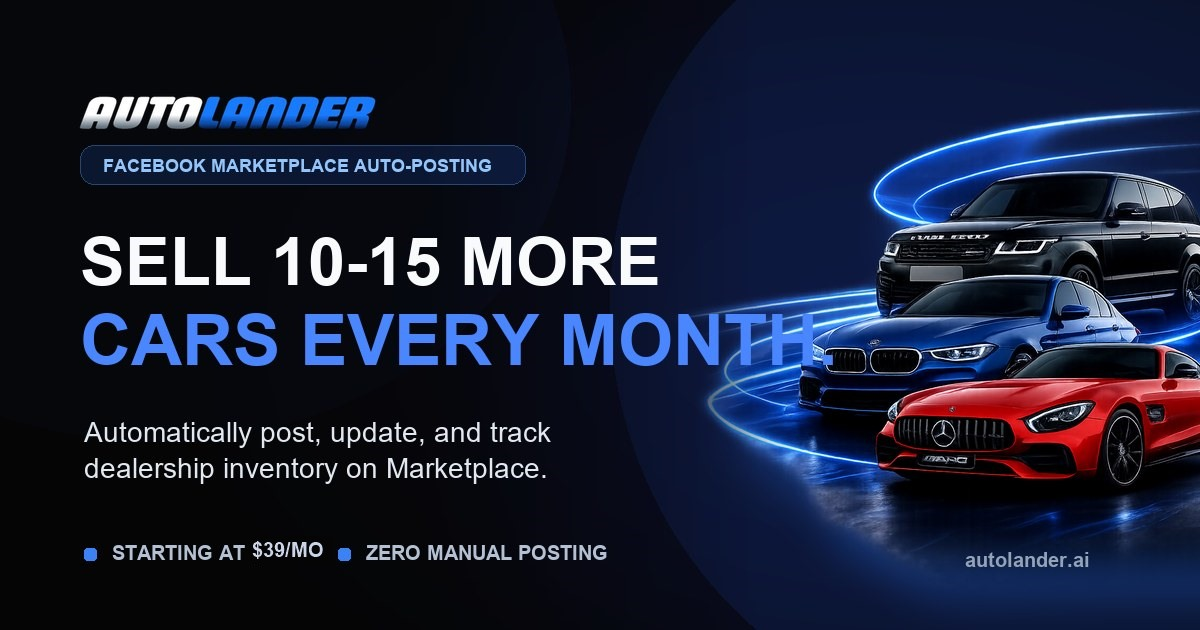
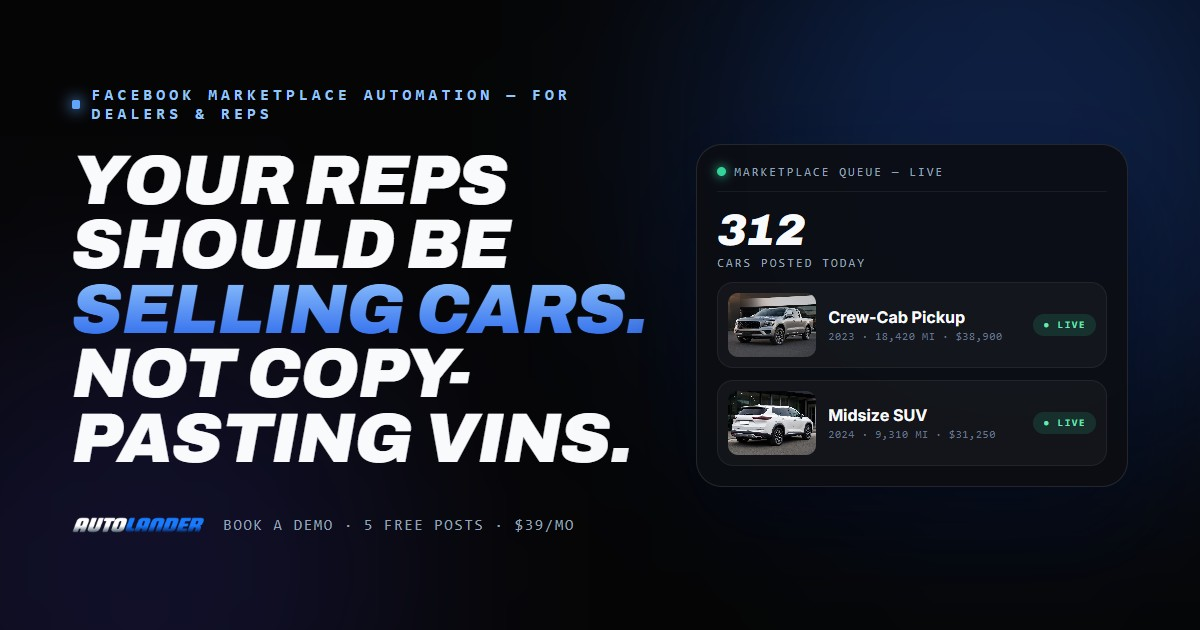
fix(preview): fresh on-brand share card (OG image) + preview-origin OG/Twitter tags

diff --git a/index.html b/index.html
@@ -9,15 +9,15 @@
     <link href="https://fonts.googleapis.com/css2?family=Archivo:ital,wght@0,600;0,700;0,800;0,900;1,800;1,900&family=Inter:wght@400;500;600;700&display=swap" rel="stylesheet" />
     <meta name="viewport" content="width=device-width, initial-scale=1.0" />
     <meta name="theme-color" content="#050505" />
-    <meta name="description" content="AutoLander automatically posts, updates, and tracks dealership inventory on Facebook Marketplace so dealers can generate more leads with less manual work." />
+    <meta name="description" content="AutoLander auto-posts, updates, and tracks your entire dealership inventory on Facebook Marketplace — so your reps sell cars instead of copy-pasting VINs." />
     <link rel="canonical" href="https://autolander.ai/" />
 
     <!-- Open Graph (Facebook, iMessage, Slack, LinkedIn, etc.) -->
     <meta property="og:type" content="website" />
     <meta property="og:url" content="https://autolander.ai/" />
     <meta property="og:site_name" content="AutoLander" />
-    <meta property="og:title" content="AutoLander | Facebook Marketplace Auto-Posting for Dealers" />
-    <meta property="og:description" content="Automatically post, update, and track dealership inventory on Facebook Marketplace." />
+    <meta property="og:title" content="AutoLander — Your reps should be selling cars, not copy-pasting VINs" />
+    <meta property="og:description" content="Auto-post, update, and track your entire dealership inventory on Facebook Marketplace. 20 cars in minutes, not hours — more buyer conversations, zero manual work." />
     <meta property="og:image" content="https://autolander.ai/og-image.jpg" />
     <meta property="og:image:secure_url" content="https://autolander.ai/og-image.jpg" />
     <meta property="og:image:type" content="image/jpeg" />
@@ -27,8 +27,8 @@
 
     <!-- Twitter Card -->
     <meta name="twitter:card" content="summary_large_image" />
-    <meta name="twitter:title" content="AutoLander | Facebook Marketplace Auto-Posting for Dealers" />
-    <meta name="twitter:description" content="Automatically post, update, and track dealership inventory on Facebook Marketplace." />
+    <meta name="twitter:title" content="AutoLander — Your reps should be selling cars, not copy-pasting VINs" />
+    <meta name="twitter:description" content="Auto-post, update, and track your entire dealership inventory on Facebook Marketplace. 20 cars in minutes, not hours — more buyer conversations, zero manual work." />
     <meta name="twitter:image" content="https://autolander.ai/og-image.jpg" />
     <meta name="twitter:image:alt" content="AutoLander helps car dealers automatically post inventory to Facebook Marketplace." />
 
@@ -47,7 +47,7 @@
       fbq('track', 'PageView');
     </script>
     <!-- End Meta Pixel Code -->
-    <title>AutoLander | Sell 5-10 More Cars Per Month</title>
+    <title>AutoLander — Marketplace posting on autopilot for car dealers</title>
     <style>
       /* Critical fallback so first paint isn't a white flash before JS loads */
       html, body { background: #050505; color: #f8fafc; margin: 0; -webkit-font-smoothing: antialiased; }

diff --git a/vite.config.js b/vite.config.js
@@ -12,6 +12,7 @@ function htmlTransformPlugin(pixelId, isPreview) {
       // never competes with the production site in search.
       if (isPreview) {
         return html
+          .replaceAll('https://autolander.ai', 'https://autolander-preview.pages.dev')
           .replace(/\n?[ \t]*<!-- Meta Pixel Code -->[\s\S]*?<!-- End Meta Pixel Code -->/, '')
           .replace(/\n?[ \t]*<noscript>[\s\S]*?facebook\.com\/tr[\s\S]*?<\/noscript>/, '')
           .replace('  </head>', '    <meta name="robots" content="noindex, nofollow" />\n  </head>')
